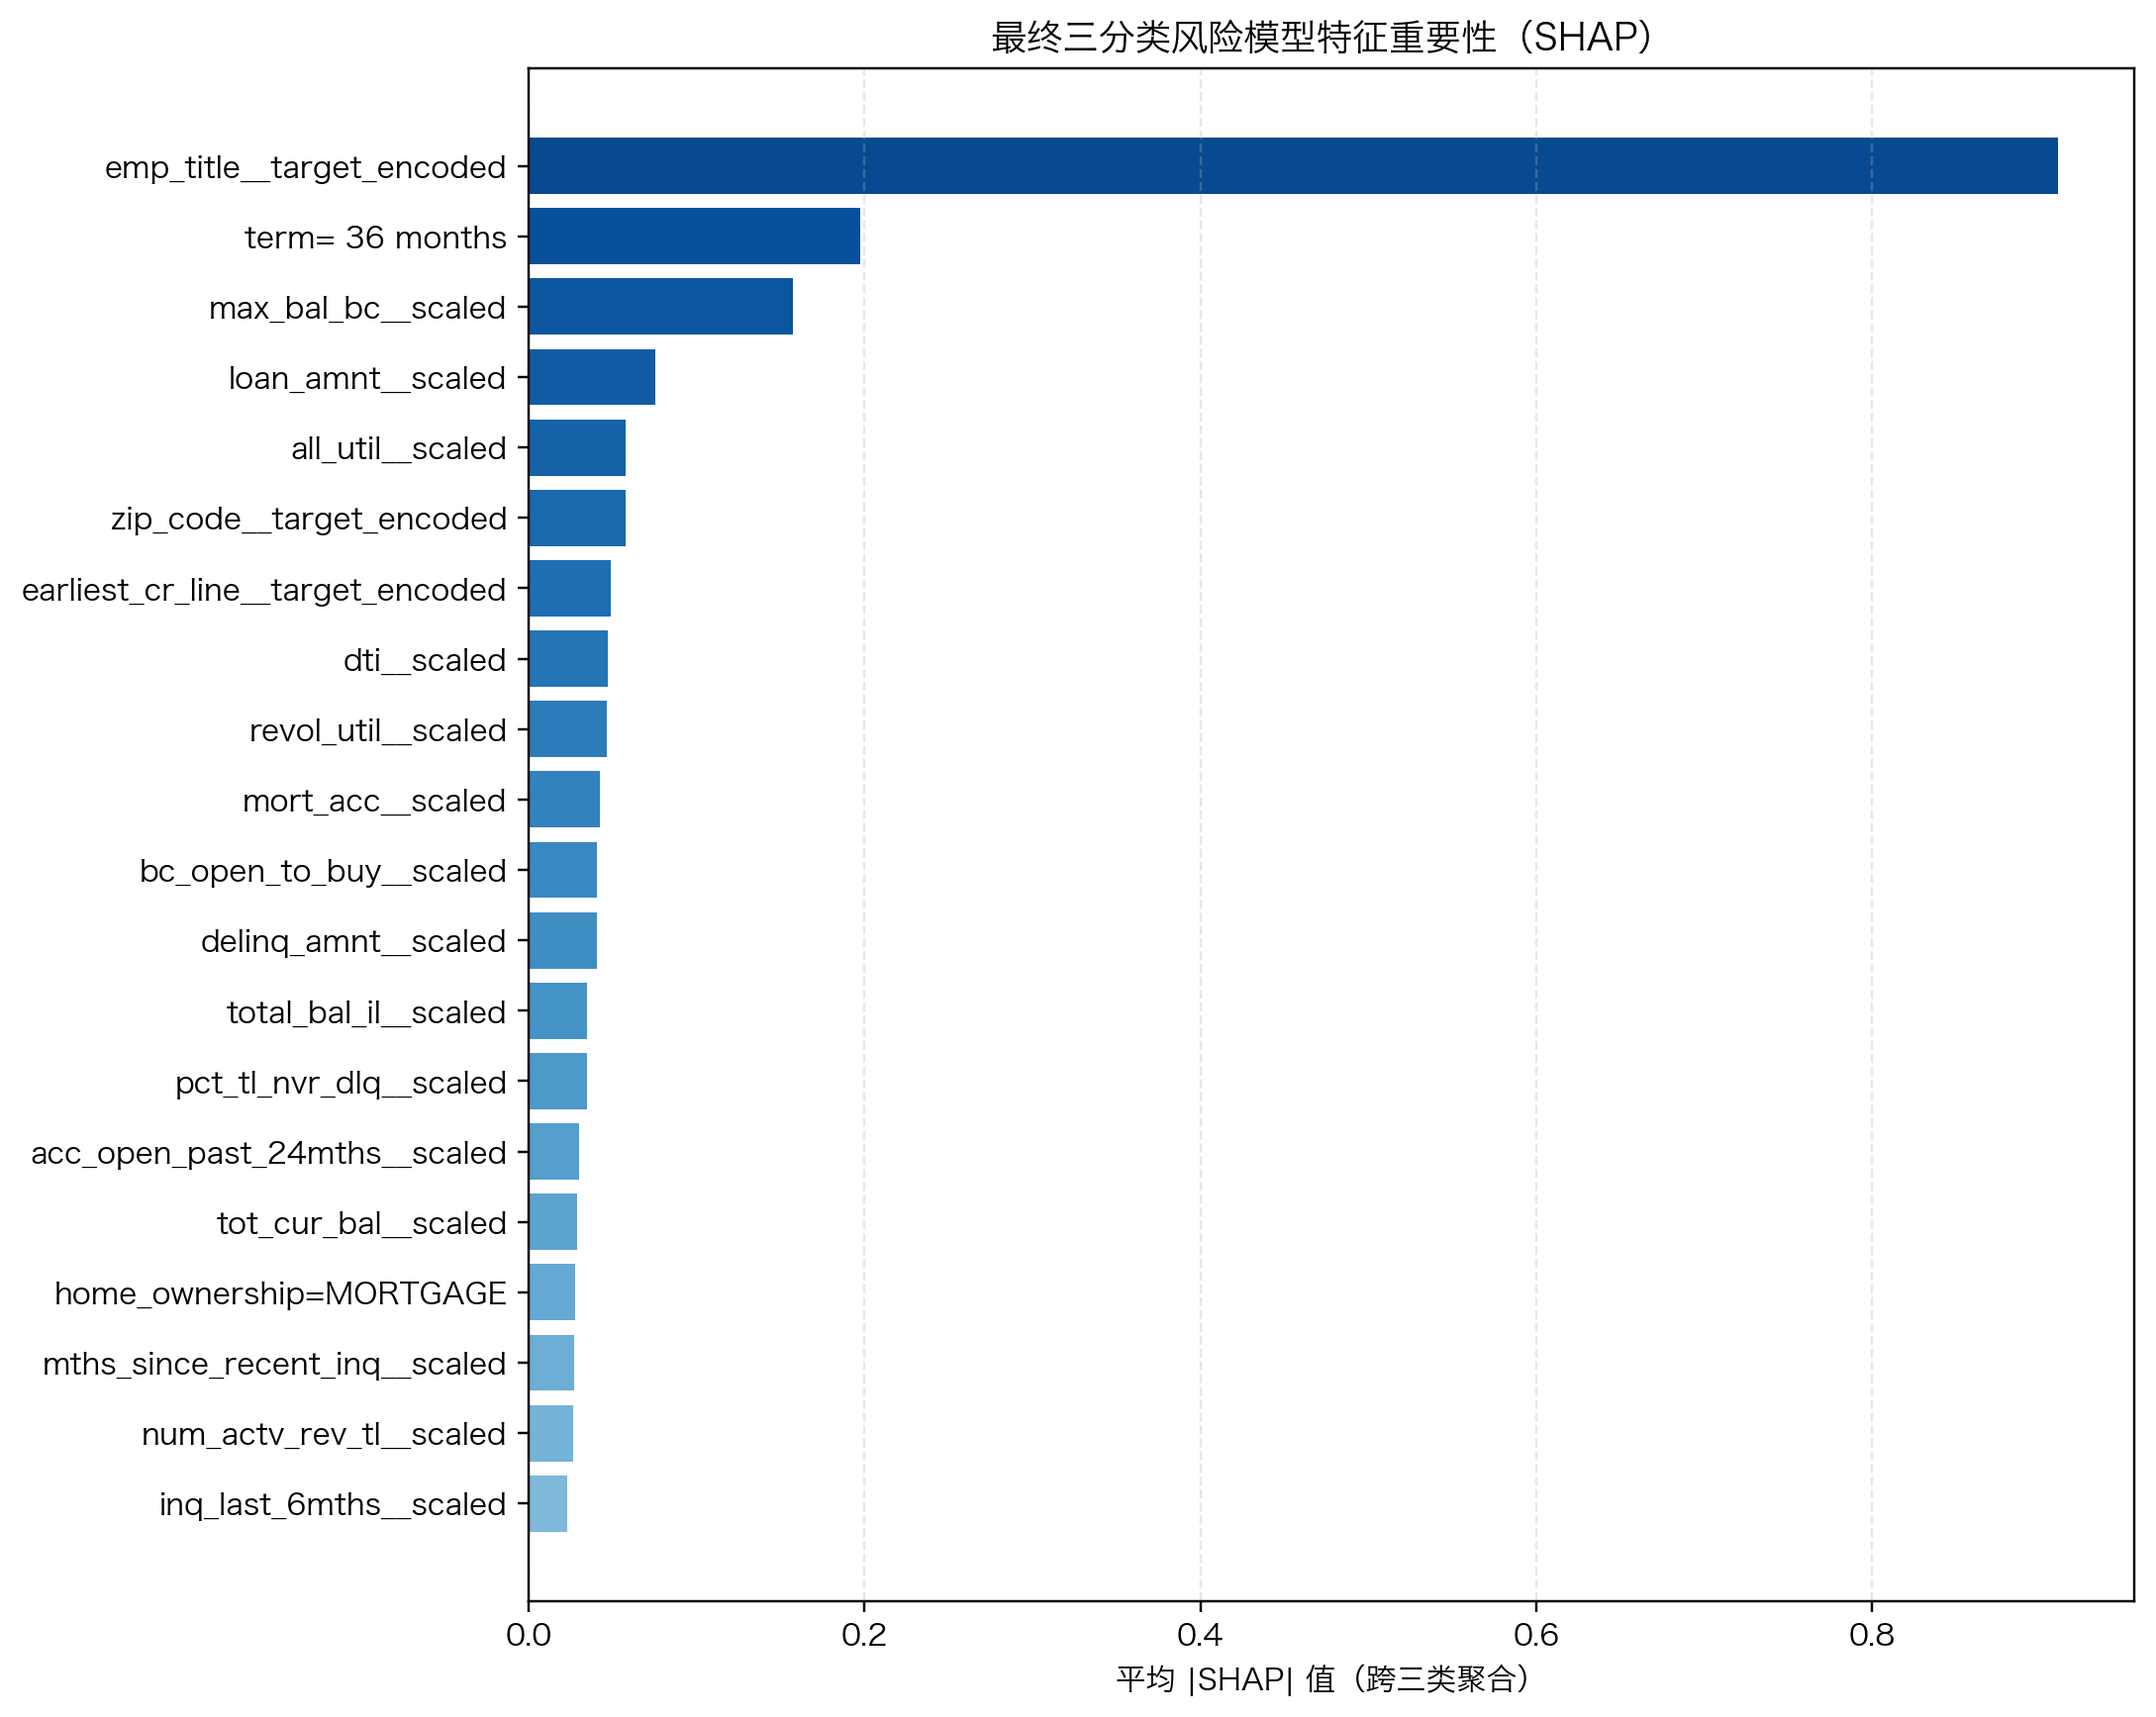
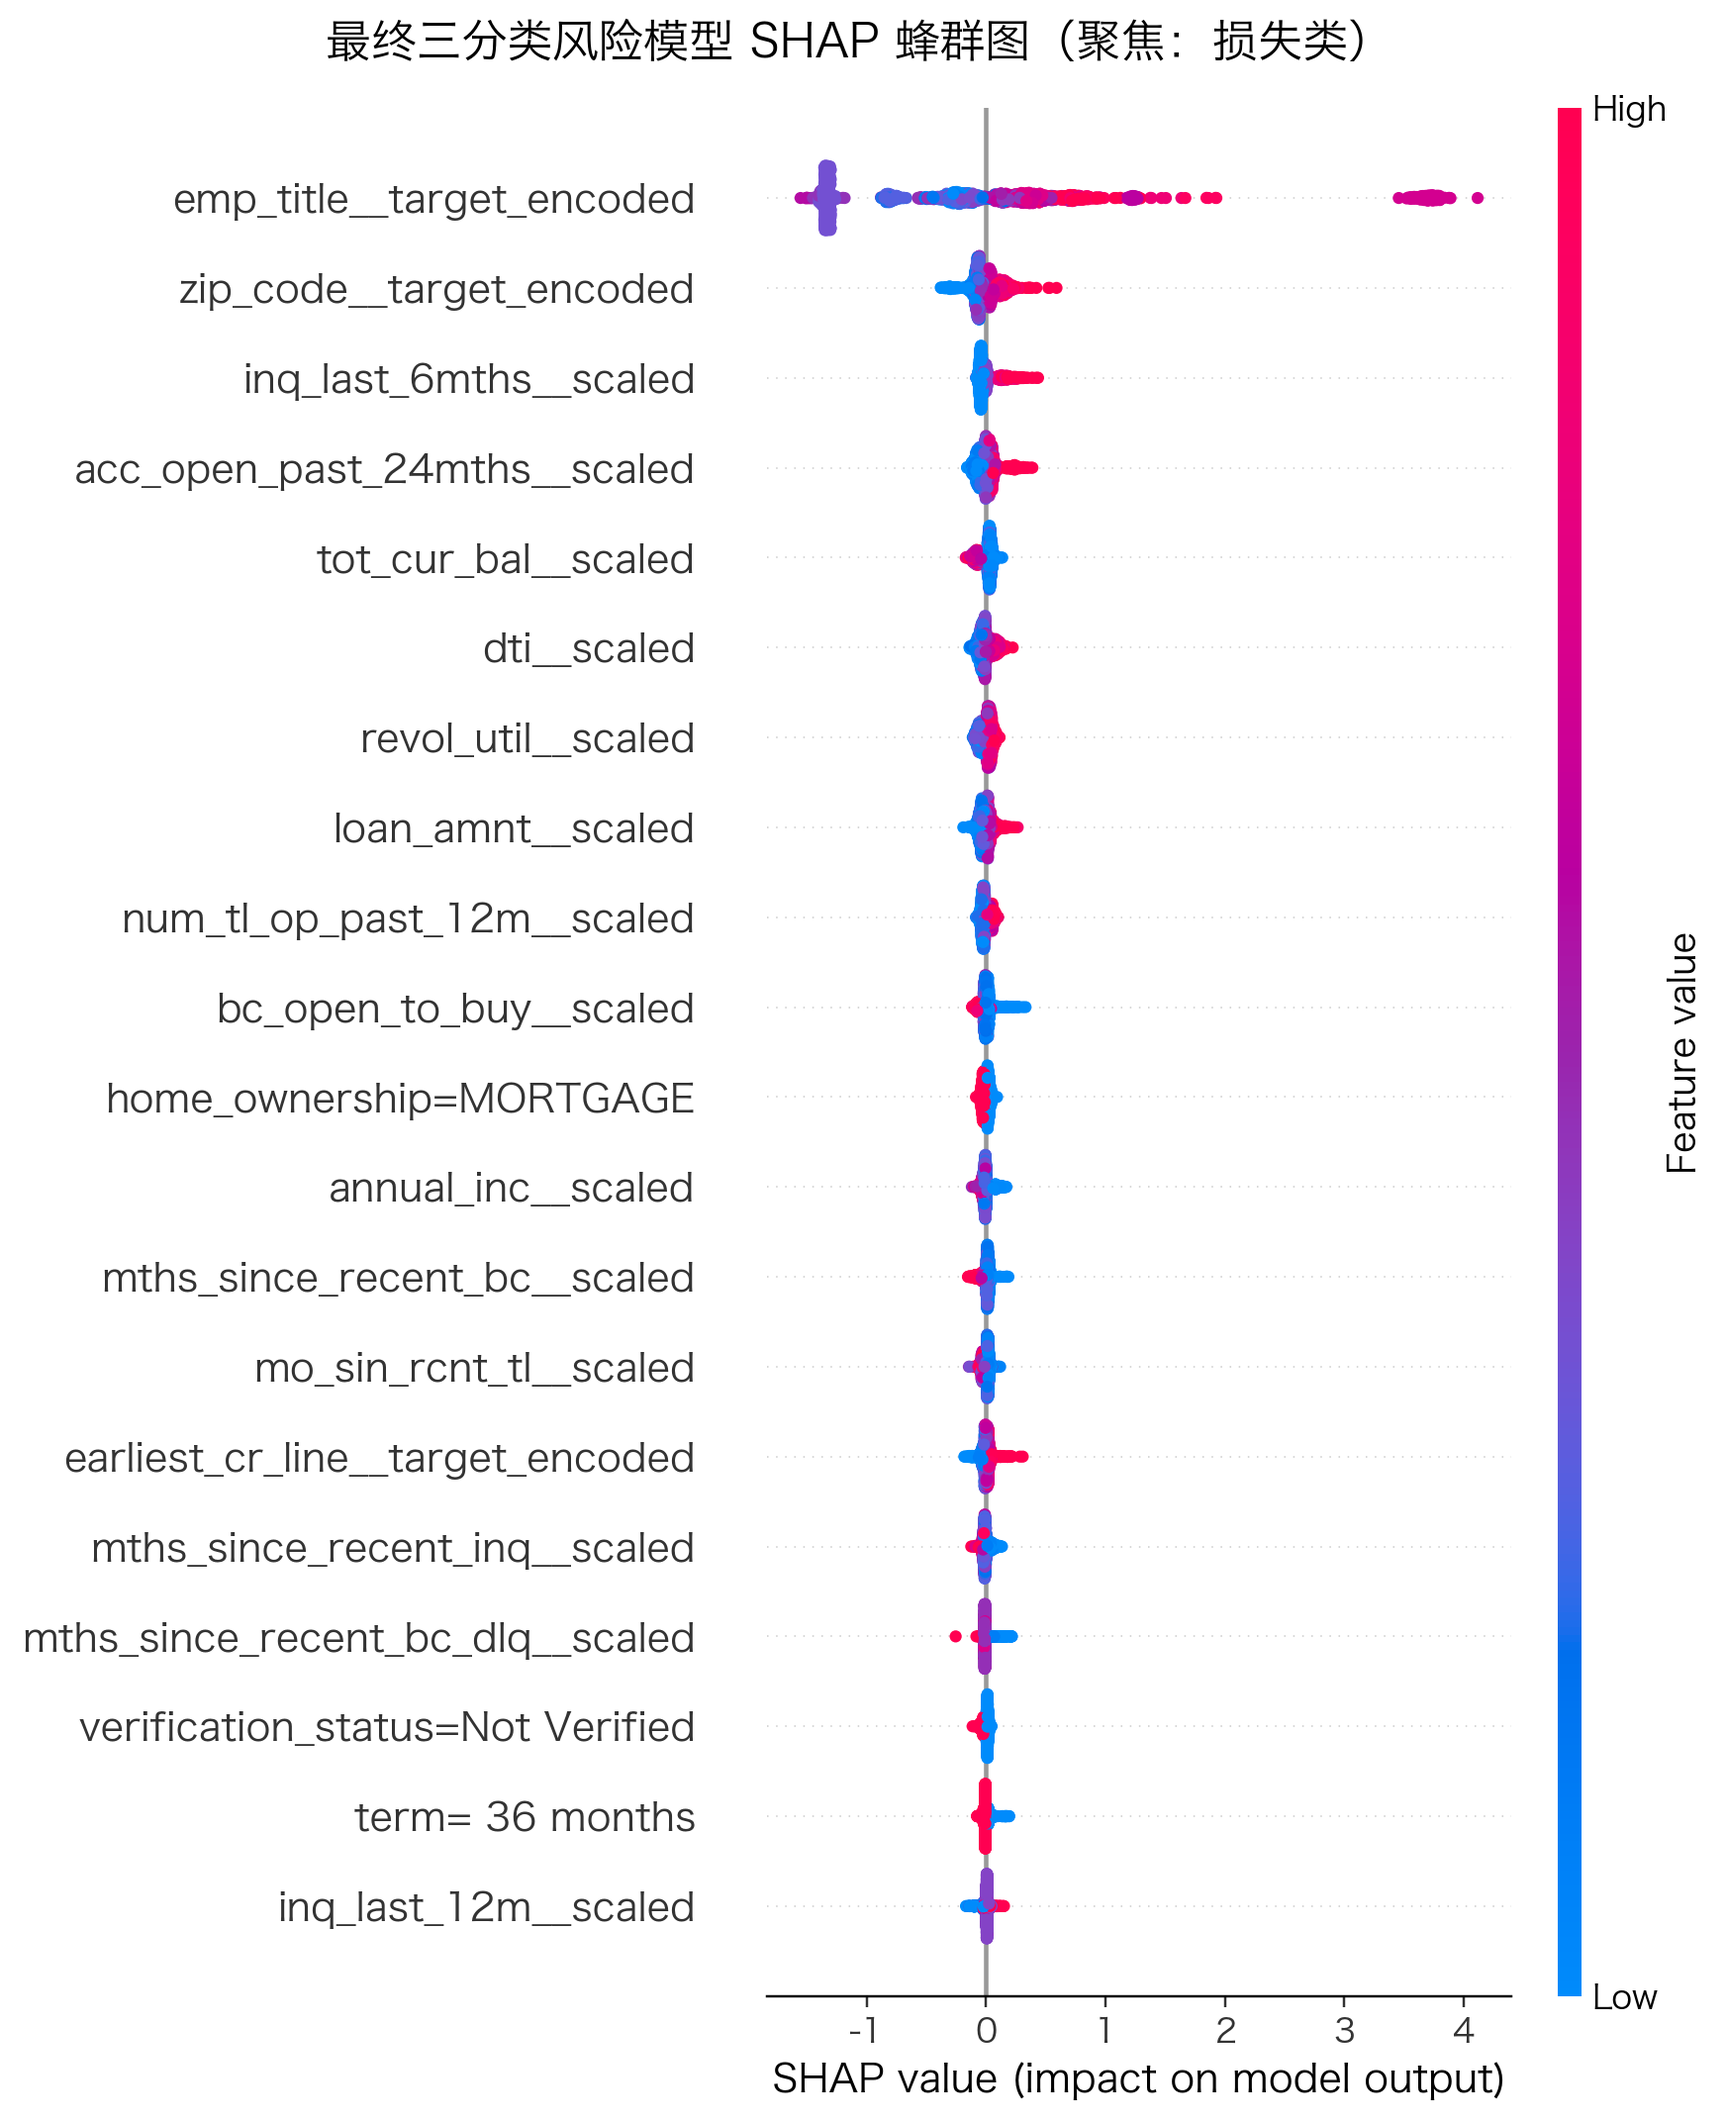
update

diff --git a/scripts/generate_final_shap.py b/scripts/generate_final_shap.py
@@ -85,6 +85,21 @@ def extract_mean_abs_shap(shap_values, n_features: int) -> np.ndarray:
     return np.abs(arr).mean(axis=0)
 
 
+def extract_class_shap_matrix(shap_values, class_index: int, n_features: int) -> np.ndarray:
+    """Return the (n_samples, n_features) SHAP matrix for one class."""
+
+    if isinstance(shap_values, list):
+        return np.asarray(shap_values[class_index])
+    arr = np.asarray(shap_values)
+    if arr.ndim == 3:
+        if arr.shape[1] == n_features:
+            # (n_samples, n_features, n_classes)
+            return arr[:, :, class_index]
+        # (n_classes, n_samples, n_features)
+        return arr[class_index]
+    return arr
+
+
 def main() -> None:
     parser = argparse.ArgumentParser(description="Recompute SHAP for final 3-class model.")
     parser.add_argument("--train-limit", type=int, default=120000)
@@ -93,6 +108,12 @@ def main() -> None:
     parser.add_argument("--seed", type=int, default=42)
     parser.add_argument("--shap-sample", type=int, default=2000)
     parser.add_argument("--max-display", type=int, default=20)
+    parser.add_argument(
+        "--focus-class",
+        type=int,
+        default=2,
+        help="Class index for the beeswarm plot (0 正常 / 1 风险关注 / 2 损失). Default 2.",
+    )
     args = parser.parse_args()
 
     print("Loading datasets ...")
@@ -136,17 +157,25 @@ def main() -> None:
     importance_df.to_csv(csv_path, index=False, encoding="utf-8-sig")
     print(f"Saved: {csv_path}")
 
-    top_df = importance_df.head(args.max_display).iloc[::-1]
-    fig, ax = plt.subplots(figsize=(10, 8))
-    ax.barh(
-        top_df["feature"],
-        top_df["mean_abs_shap"],
-        color=plt.cm.Blues(np.linspace(0.45, 0.9, len(top_df))),
+    # Beeswarm summary plot for the focus class (default: 损失类).
+    class_matrix = extract_class_shap_matrix(shap_values, args.focus_class, len(feature_names))
+    plt.figure(figsize=(10, 8))
+    shap.summary_plot(
+        class_matrix,
+        feature_sample,
+        feature_names=feature_names,
+        max_display=args.max_display,
+        plot_type="dot",
+        color_bar=True,
+        show=False,
     )
-    ax.set_xlabel("平均 |SHAP| 值（跨三类聚合）")
-    ax.set_title("最终三分类风险模型特征重要性（SHAP）")
-    ax.grid(axis="x", linestyle="--", alpha=0.3)
-    fig.tight_layout()
+    fig = plt.gcf()
+    fig.suptitle(
+        f"最终三分类风险模型 SHAP 蜂群图（聚焦：{CLASS_NAMES_3[args.focus_class]}）",
+        fontsize=15,
+        fontweight="bold",
+        y=1.02,
+    )
     summary_path = ARTICLE_DIR / "shap_summary_plot.png"
     fig.savefig(summary_path, dpi=220, bbox_inches="tight")
     plt.close(fig)
